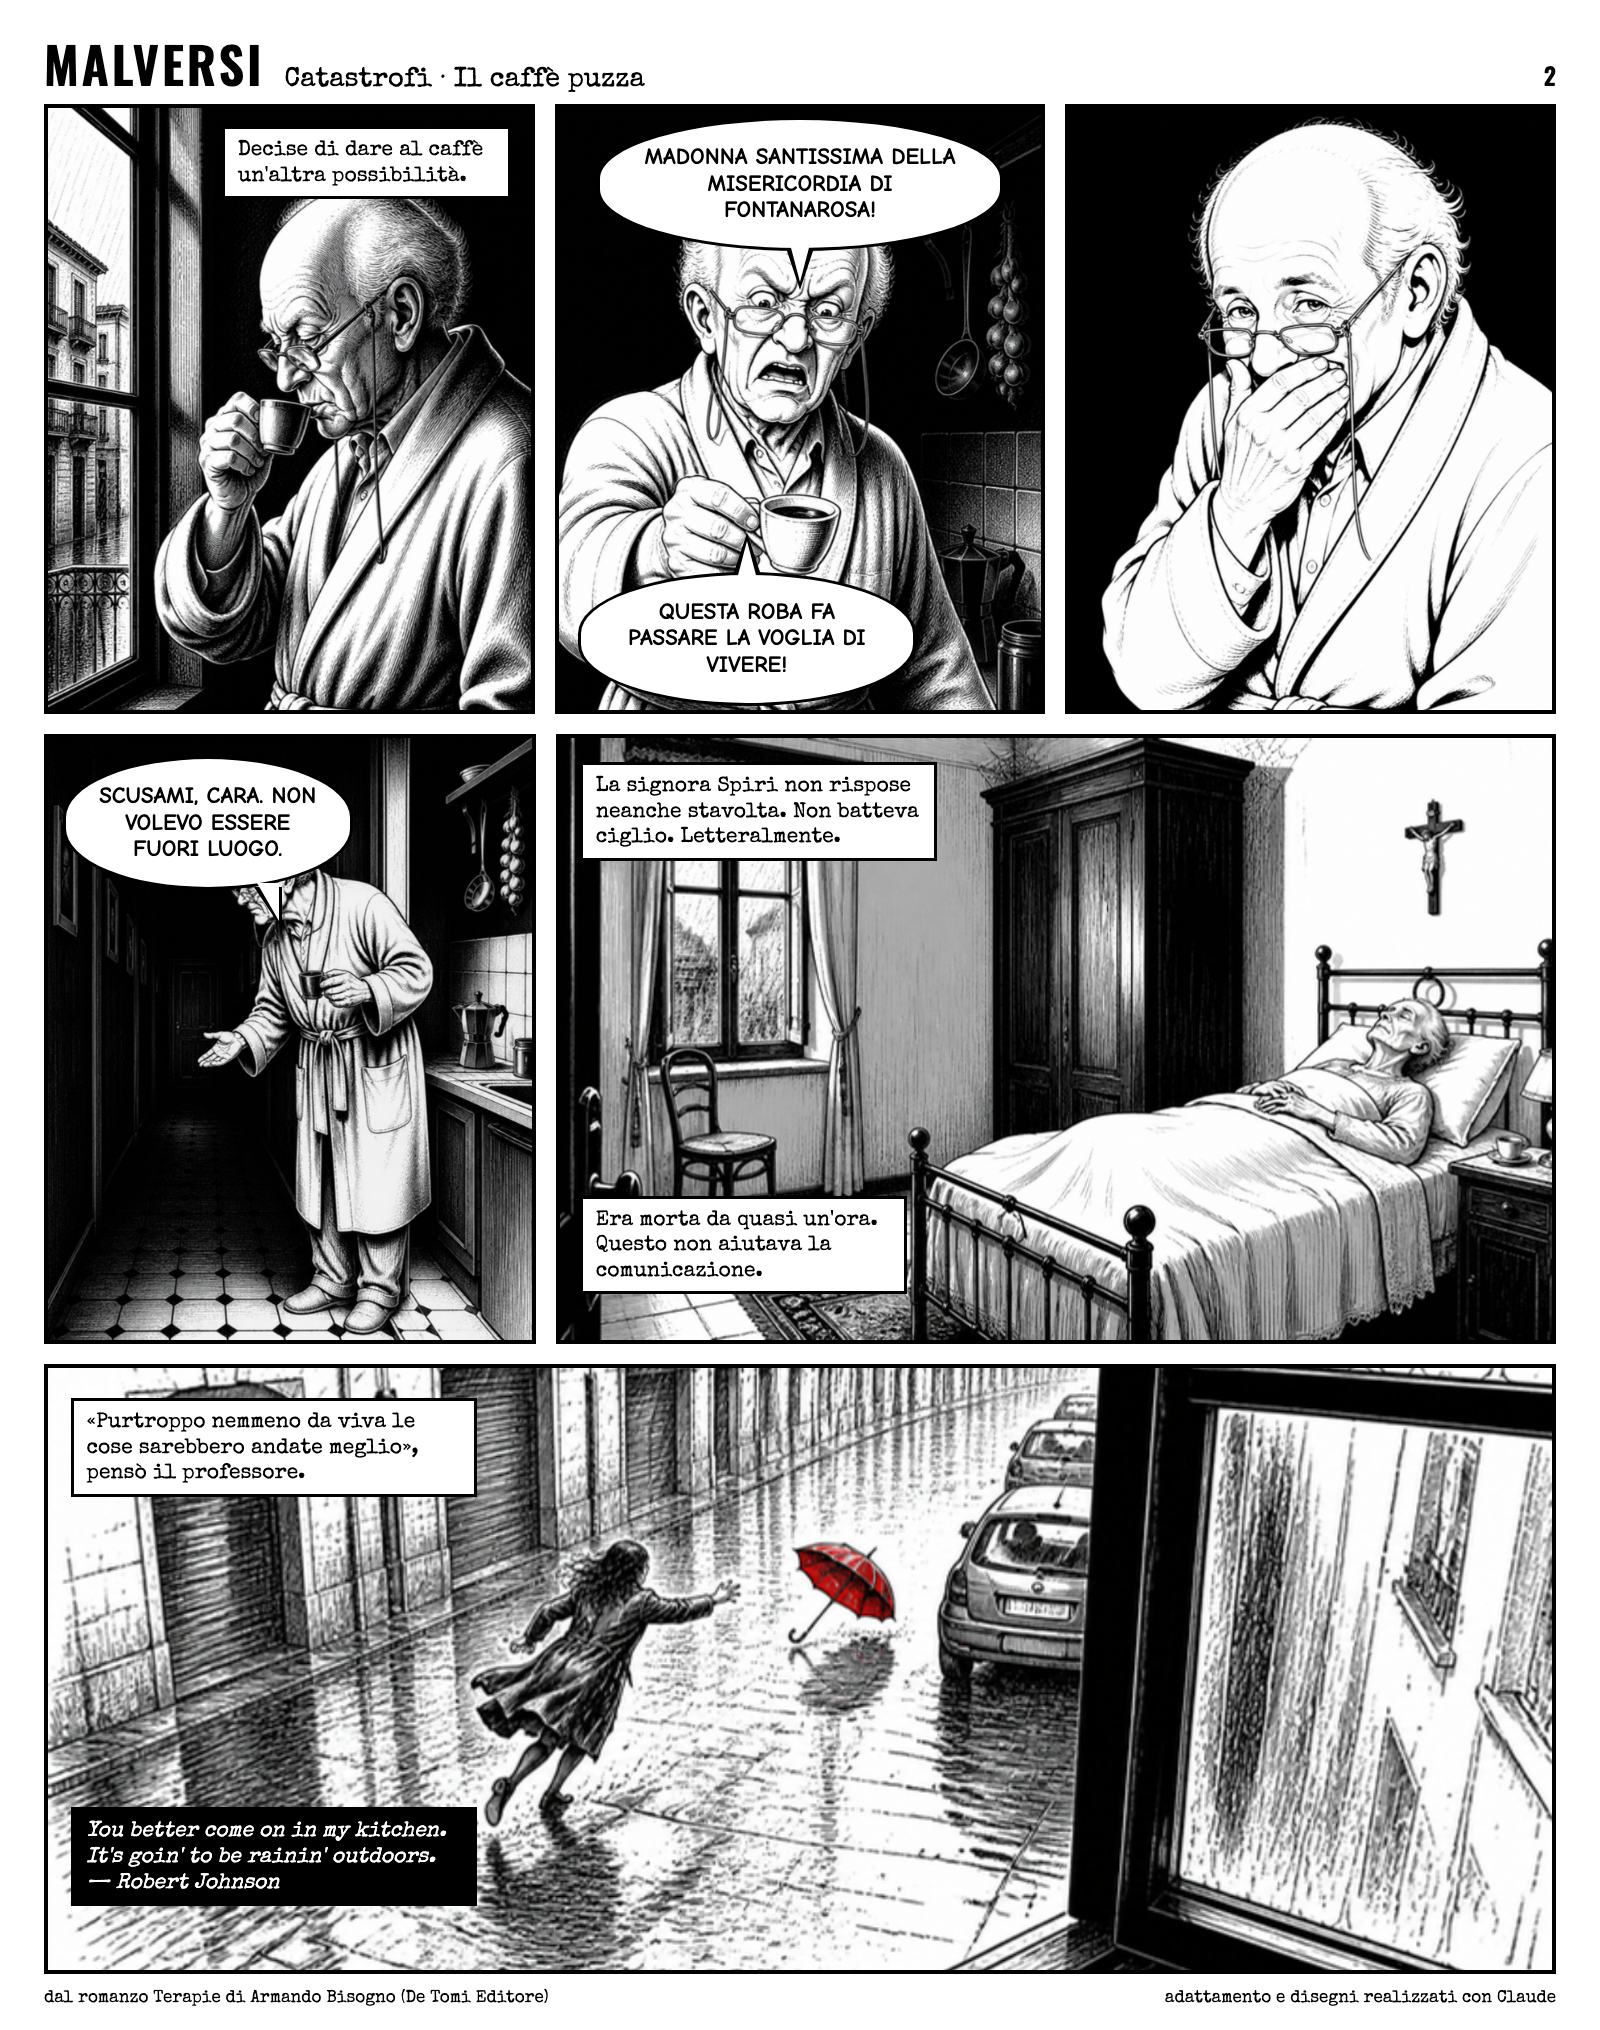
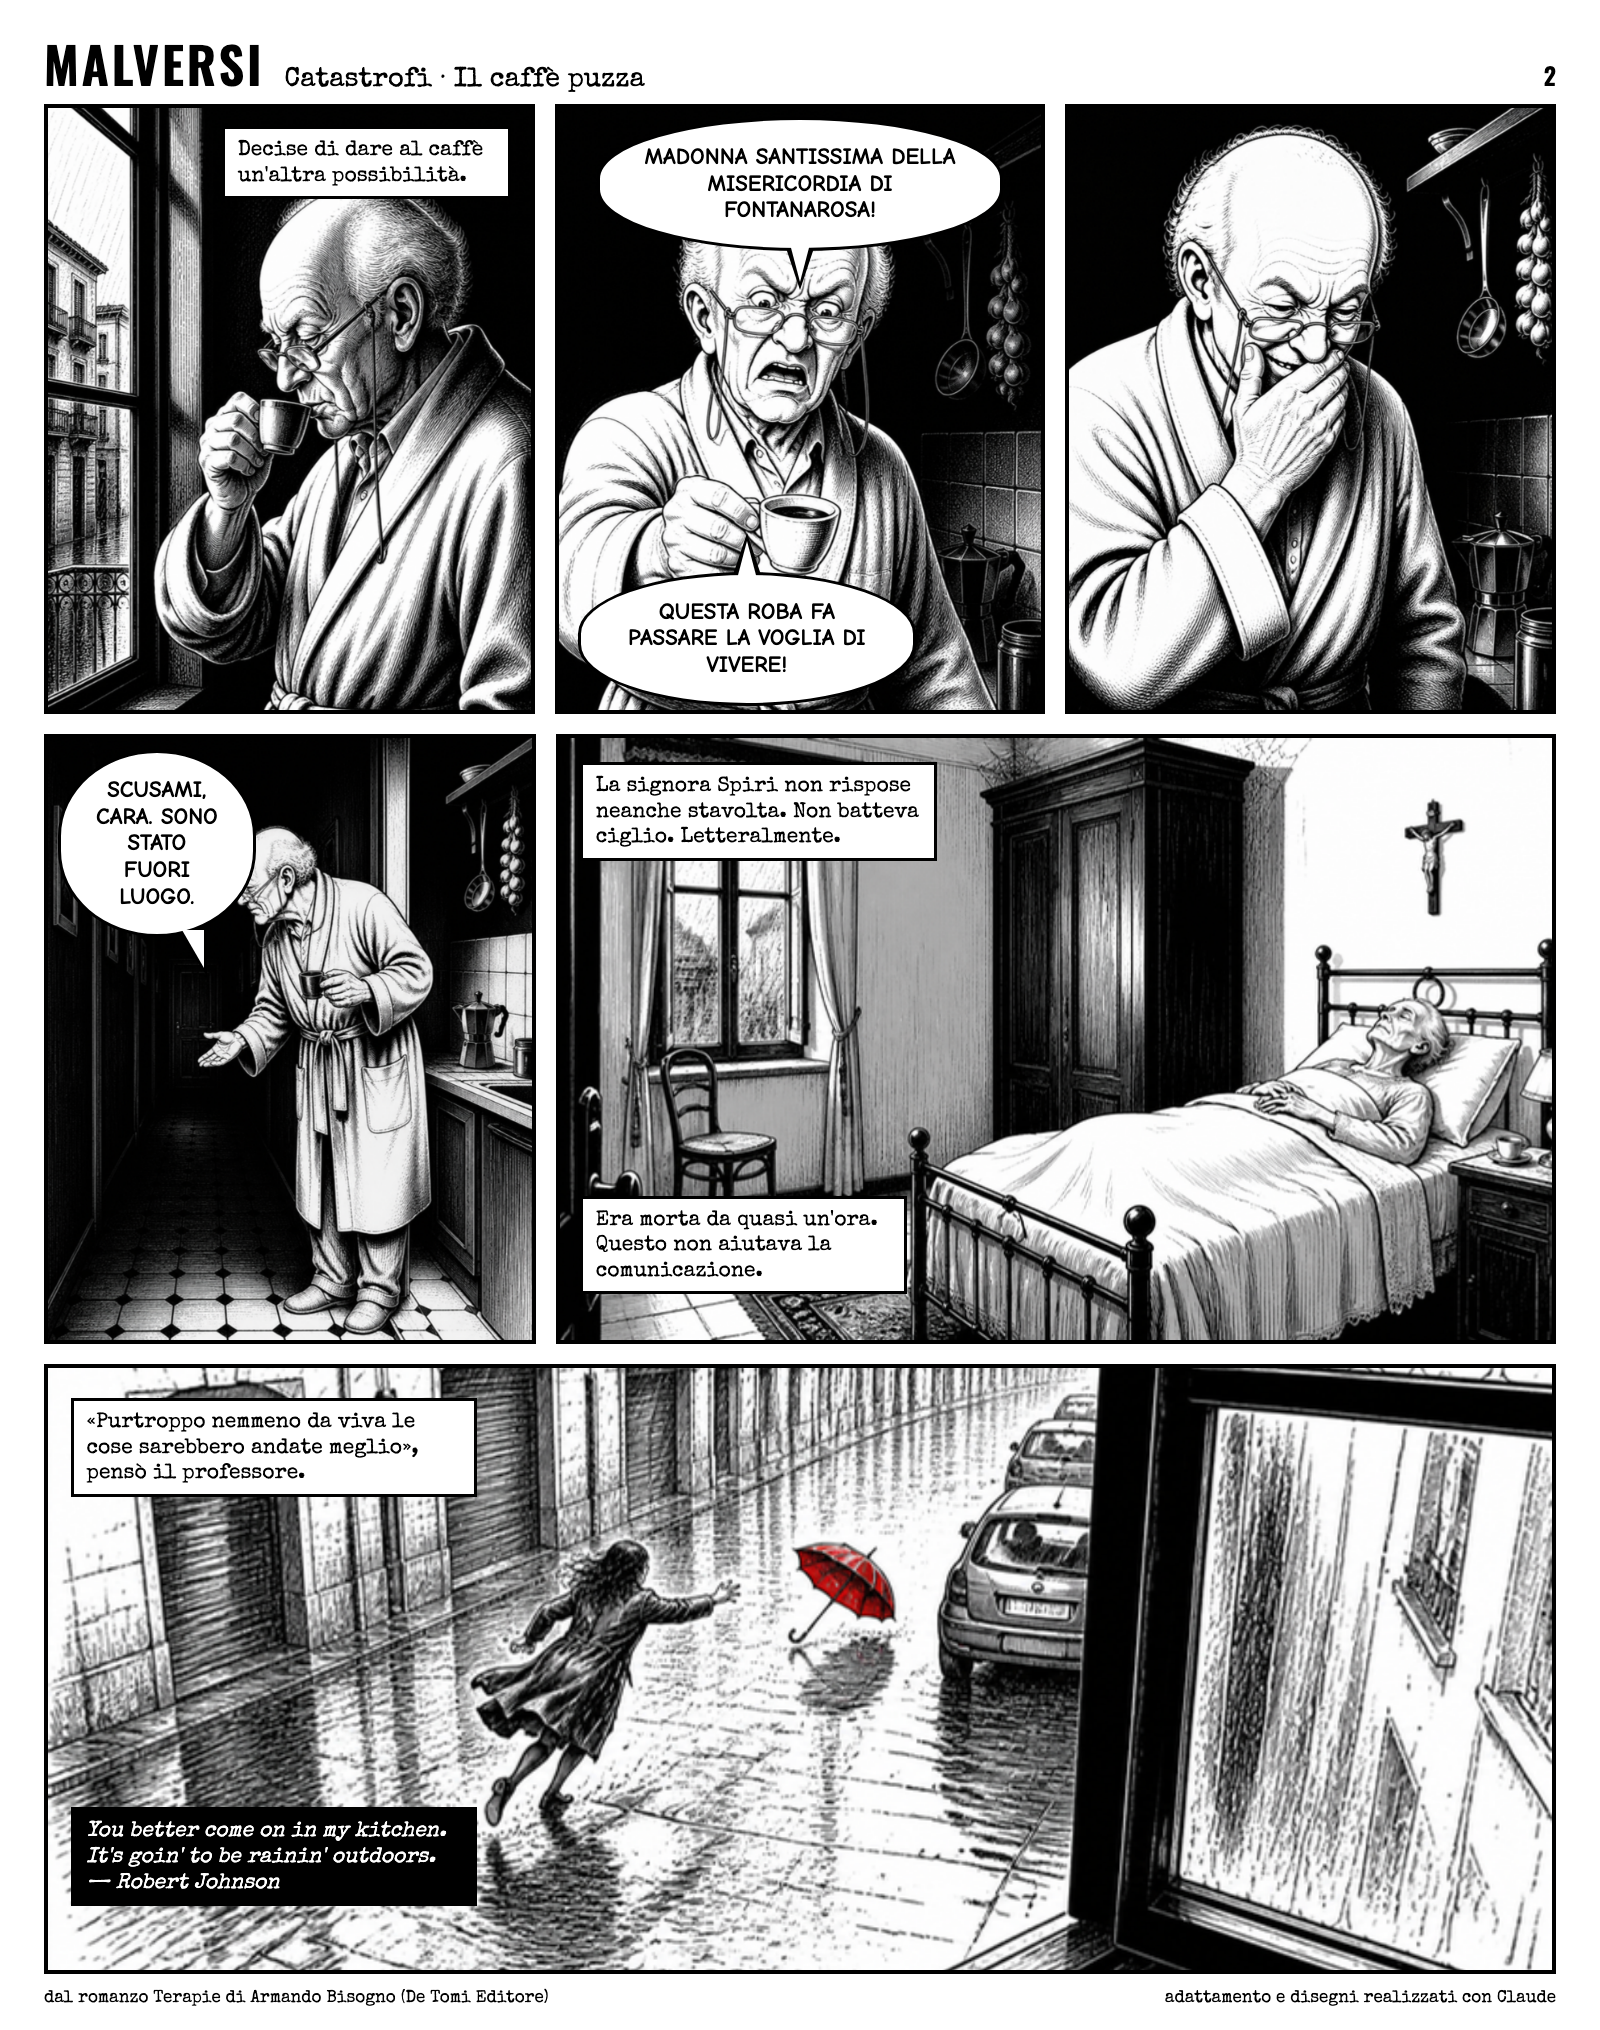
autosync 2026-11-15T08:20Z
commit automatico di ClaudeWS (timer 3h / hook SessionStart)

Changed region(s): [[0.6562, 0.031, 0.9688, 0.3724], [0.0312, 0.3724, 0.2188, 0.4655]]

diff --git a/brain/progetti/malversi-fumetti/catastrofi/ep00/tavola2.html b/brain/progetti/malversi-fumetti/catastrofi/ep00/tavola2.html
@@ -38,7 +38,7 @@ body { width: 1600px; height: 2030px; background: #fff; font-family: 'Comic Neue
 <div class="head"><span class="serie">MALVERSI</span>
 <span class="tit">Catastrofi · Il caffè puzza</span>
 <span class="num">2</span></div>
-<div class="pag"><div class="s"><div class="v" style="flex:1 1 0"><img src="vignette/2-1.png"><div class="t didascalia" style="left:36%;top:3%;width:60%">Decise di dare al caffè un&#x27;altra possibilità.</div></div><div class="v" style="flex:1 1 0"><img src="vignette/2-2.png"><div class="t balloon coda-bc" style="left:8%;top:1.5%;width:84%">Madonna santissima della Misericordia di Fontanarosa!</div><div class="t balloon coda-tc" style="left:4%;top:77%;width:70%">Questa roba fa passare la voglia di vivere!</div></div><div class="v" style="flex:1 1 0"><img src="vignette/2-3.png"></div></div><div class="s"><div class="v" style="flex:1 1 0"><img src="vignette/2-4.png"><div class="t balloon coda-br" style="left:3%;top:3%;width:60%">Scusami, cara. Non volevo essere fuori luogo.</div></div><div class="v" style="flex:2.05 1 0"><img src="vignette/2-5.png"><div class="t didascalia" style="left:2%;top:4%;width:36%">La signora Spiri non rispose neanche stavolta. Non batteva ciglio. Letteralmente.</div><div class="t didascalia" style="left:2%;top:76%;width:33%">Era morta da quasi un&#x27;ora. Questo non aiutava la comunicazione.</div></div></div><div class="s"><div class="v" style="flex:1 1 0"><img src="vignette/2-6.png"><div class="t didascalia" style="left:1.5%;top:5%;width:27%">«Purtroppo nemmeno da viva le cose sarebbero andate meglio», pensò il professore.</div><div class="t blues" style="left:1.5%;top:73%;width:27%">You better come on in my kitchen. It&#x27;s goin&#x27; to be rainin&#x27; outdoors.<br>— Robert Johnson</div></div></div></div>
+<div class="pag"><div class="s"><div class="v" style="flex:1 1 0"><img src="vignette/2-1.png"><div class="t didascalia" style="left:36%;top:3%;width:60%">Decise di dare al caffè un&#x27;altra possibilità.</div></div><div class="v" style="flex:1 1 0"><img src="vignette/2-2.png"><div class="t balloon coda-bc" style="left:8%;top:1.5%;width:84%">Madonna santissima della Misericordia di Fontanarosa!</div><div class="t balloon coda-tc" style="left:4%;top:77%;width:70%">Questa roba fa passare la voglia di vivere!</div></div><div class="v" style="flex:1 1 0"><img src="vignette/2-3.png"></div></div><div class="s"><div class="v" style="flex:1 1 0"><img src="vignette/2-4.png"><div class="t balloon coda-br" style="left:2%;top:2%;width:41%">Scusami, cara. Sono stato fuori luogo.</div></div><div class="v" style="flex:2.05 1 0"><img src="vignette/2-5.png"><div class="t didascalia" style="left:2%;top:4%;width:36%">La signora Spiri non rispose neanche stavolta. Non batteva ciglio. Letteralmente.</div><div class="t didascalia" style="left:2%;top:76%;width:33%">Era morta da quasi un&#x27;ora. Questo non aiutava la comunicazione.</div></div></div><div class="s"><div class="v" style="flex:1 1 0"><img src="vignette/2-6.png"><div class="t didascalia" style="left:1.5%;top:5%;width:27%">«Purtroppo nemmeno da viva le cose sarebbero andate meglio», pensò il professore.</div><div class="t blues" style="left:1.5%;top:73%;width:27%">You better come on in my kitchen. It&#x27;s goin&#x27; to be rainin&#x27; outdoors.<br>— Robert Johnson</div></div></div></div>
 <div class="foot"><span>dal romanzo Terapie di Armando Bisogno (De Tomi Editore)</span>
 <span>adattamento e disegni realizzati con Claude</span></div>
 </body></html>

diff --git a/brain/progetti/malversi-fumetti/catastrofi/piano.md b/brain/progetti/malversi-fumetti/catastrofi/piano.md
@@ -3,13 +3,15 @@
 Adattamento di *Catastrofi*, prima parte di *Terapie* (De Tomi, 2024): prologo, nove capitoli,
 Post Scriptum; circa 19.000 parole; sabato 3 – lunedì 12 settembre 2022.
 
-Stato: **piano e stile approvati** da Armando il 15.11.2026. Schede dei personaggi da approvare;
-sceneggiatura dell'episodio 0 scritta. Nessuna tavola prodotta.
+Stato (15.11.2026): piano, stile e schede dei personaggi approvati da Armando. **Episodio 0
+(prologo) montato**: `ep00/tavola1.png`, `ep00/tavola2.png`, in attesa del suo giudizio.
+Tutto in bianco e nero; unico colore dell'albo l'ombrello rosso del prologo.
 
 ## Criteri
 
-1. **Tagliare, non riscrivere.** Battute e didascalie sono parole del romanzo, accorciate.
-   Niente battute inventate; dove serve un raccordo, lo fa il disegno.
+1. **Dialoghi adattati al fumetto.** Battute e didascalie partono dal romanzo ma si accorciano e
+   si riscrivono quanto serve a stare in un balloon: quelle del libro sono troppo lunghe
+   (indicazione di Armando, 15.11.2026). Restano voce, lessico e battute memorabili.
 2. **Didascalie = voce del narratore.** Macchina da scrivere, terza persona, come nel romanzo.
    Solo l'ultima tavola rivela che il narratore è Malversi e che il fumetto è il suo diario
    terapeutico per Giacomo.
@@ -87,8 +89,8 @@ insieme: una tavola per il congedo da Spiri, una per la lettera.
 - Schede dei personaggi nel nuovo tratto, approvate una per una prima di disegnare.
 - Sceneggiatura per episodio in `catastrofi/epNN-titolo.md`: per ogni vignetta inquadratura,
   testi con il rimando alla riga del romanzo, prompt.
-- `build_tavola.py` va esteso: oggi monta solo la griglia fissa 2×3, servono strisce con
-  vignette di larghezza diversa.
+- Montaggio con `build_tavola_strisce.py` (tavola verticale a tre strisce, vignette di
+  larghezza diversa); spec in `epNN/tavolaN.json`.
 - Circa 170 vignette in tutto.
 
 ## Diritti

diff --git a/brain/progetti/malversi-fumetti/README.md b/brain/progetti/malversi-fumetti/README.md
@@ -36,4 +36,21 @@ Bibbia di personaggi/luoghi/prompt: [bibbia.md](bibbia.md).
 ## Storia lunga: Catastrofi (dal 15.11.2026)
 
 Adattamento della prima parte di *Terapie* in 10 episodi e 31 tavole: [catastrofi/piano.md](catastrofi/piano.md).
-Stile v2 a china netta (vedi bibbia). Stato: piano e prove di stile da approvare.
+Bianco e nero a china; dialoghi accorciati e adattati al fumetto. Episodio 0 montato.
+
+Procedura per episodio (provata sull'episodio 0):
+
+1. Sceneggiatura in `catastrofi/epNN-titolo.md`.
+2. Vignette con Canva `generate-image`. Formati: `LANDSCAPE_2_1` (tutta la striscia),
+   `LANDSCAPE_5_4` (mezza), `PORTRAIT_4_5` (un terzo), `LANDSCAPE_16_9` (due terzi).
+   Riferimenti: la scheda del personaggio e **una vignetta già riuscita della stessa scena**.
+   Senza quest'ultima il tratto esce chiaro e piatto; con quella prende i neri pieni.
+3. Alta risoluzione dal design di appoggio **DAHWspKSzpI**: `read-design` con
+   `open_transaction` → `add_page` (2000×1000, 1500×1200, 1200×1500, 1920×1080) → gli id delle
+   pagine nuove si leggono con `design_content` e `page_indices` → `insert_fill` una pagina per
+   chiamata → `commit` → `export-design` png → `curl` in `epNN/vignette/`.
+4. `epNN/tavolaN.json` → `python3 build_tavola_strisce.py catastrofi/epNN/tavolaN.json`.
+   Guardare il PNG e spostare i testi che coprono i volti.
+
+Schede dei personaggi e id Canva: `riferimenti/canva-ids.txt`. Scheda di Spiri: MAHa-J1Yoao;
+vignetta di riferimento per casa Spiri: MAHa-J9Jfy8.

diff --git a/Università/Ricerca/Paper/2026 Definizioni dialoghi/_sorgenti/diario.md b/Università/Ricerca/Paper/2026 Definizioni dialoghi/_sorgenti/diario.md
@@ -118,3 +118,8 @@ Esito: B5 come formulato è troppo largo (circa 1 su 9). Funziona solo quando il
 - Le spie sono riformulate come **domande da porsi** sulla frase, con accanto le **parole latine** a cui fare attenzione; in testa tre domande guida (Il testo dice che sta definendo? → A; La frase ha la forma di una definizione? → B; Che cosa succede alla definizione? → C; parola-segnale che qui non definisce → D).
 - **Il criterio di ogni spia resta invariato**: cambia la formulazione, non ciò che la spia conta. La codifica già fatta resta valida.
 - Aggiornati il codebook (Claude Doc, bozza 6) e il menù delle spie dell'artefatto (versione 5, con le tre domande guida in cima al menù).
+
+## 15.11.2026 — A4 esteso a *significare* (bozza 7)
+
+- Decisione di Armando: A4 comprende anche il verbo *significare* in ogni forma (*significo, significat, quid significat?*), non solo nella formula *nomen … significat*. È un ampliamento del criterio: le frasi con *significat* già codificate vanno ricontrollate.
+- Proposta di Armando in discussione: distinguere A e B per la forma (A = affermazioni, B = domande).

diff --git a/brain/progetti/malversi-fumetti/catastrofi/ep00-il-caffe-puzza.md b/brain/progetti/malversi-fumetti/catastrofi/ep00-il-caffe-puzza.md
@@ -3,7 +3,9 @@
 Dal **Prologo** di *Catastrofi* (*Terapie*). Sabato 3 settembre 2022. Due tavole, 11 vignette.
 Personaggi: il professor Spiri; la signora Franca. Luogo: casa Spiri, cucina e camera da letto.
 
-Tutti i testi sono del romanzo, tagliati. DID = didascalia (voce del narratore, macchina da
+**Montato il 15.11.2026** (`ep00/tavola1.png`, `ep00/tavola2.png`). I testi definitivi, accorciati
+e adattati, sono in `ep00/tavola1.json` e `ep00/tavola2.json`; quelli qui sotto sono la prima
+stesura fedele al romanzo. DID = didascalia (voce del narratore, macchina da
 scrivere). Nel prologo il professore parla tre volte sole; il resto è narratore, come nel testo.
 
 Regola dell'episodio: della signora Franca, fino alla vignetta 2.5, si vedono solo dettagli.
